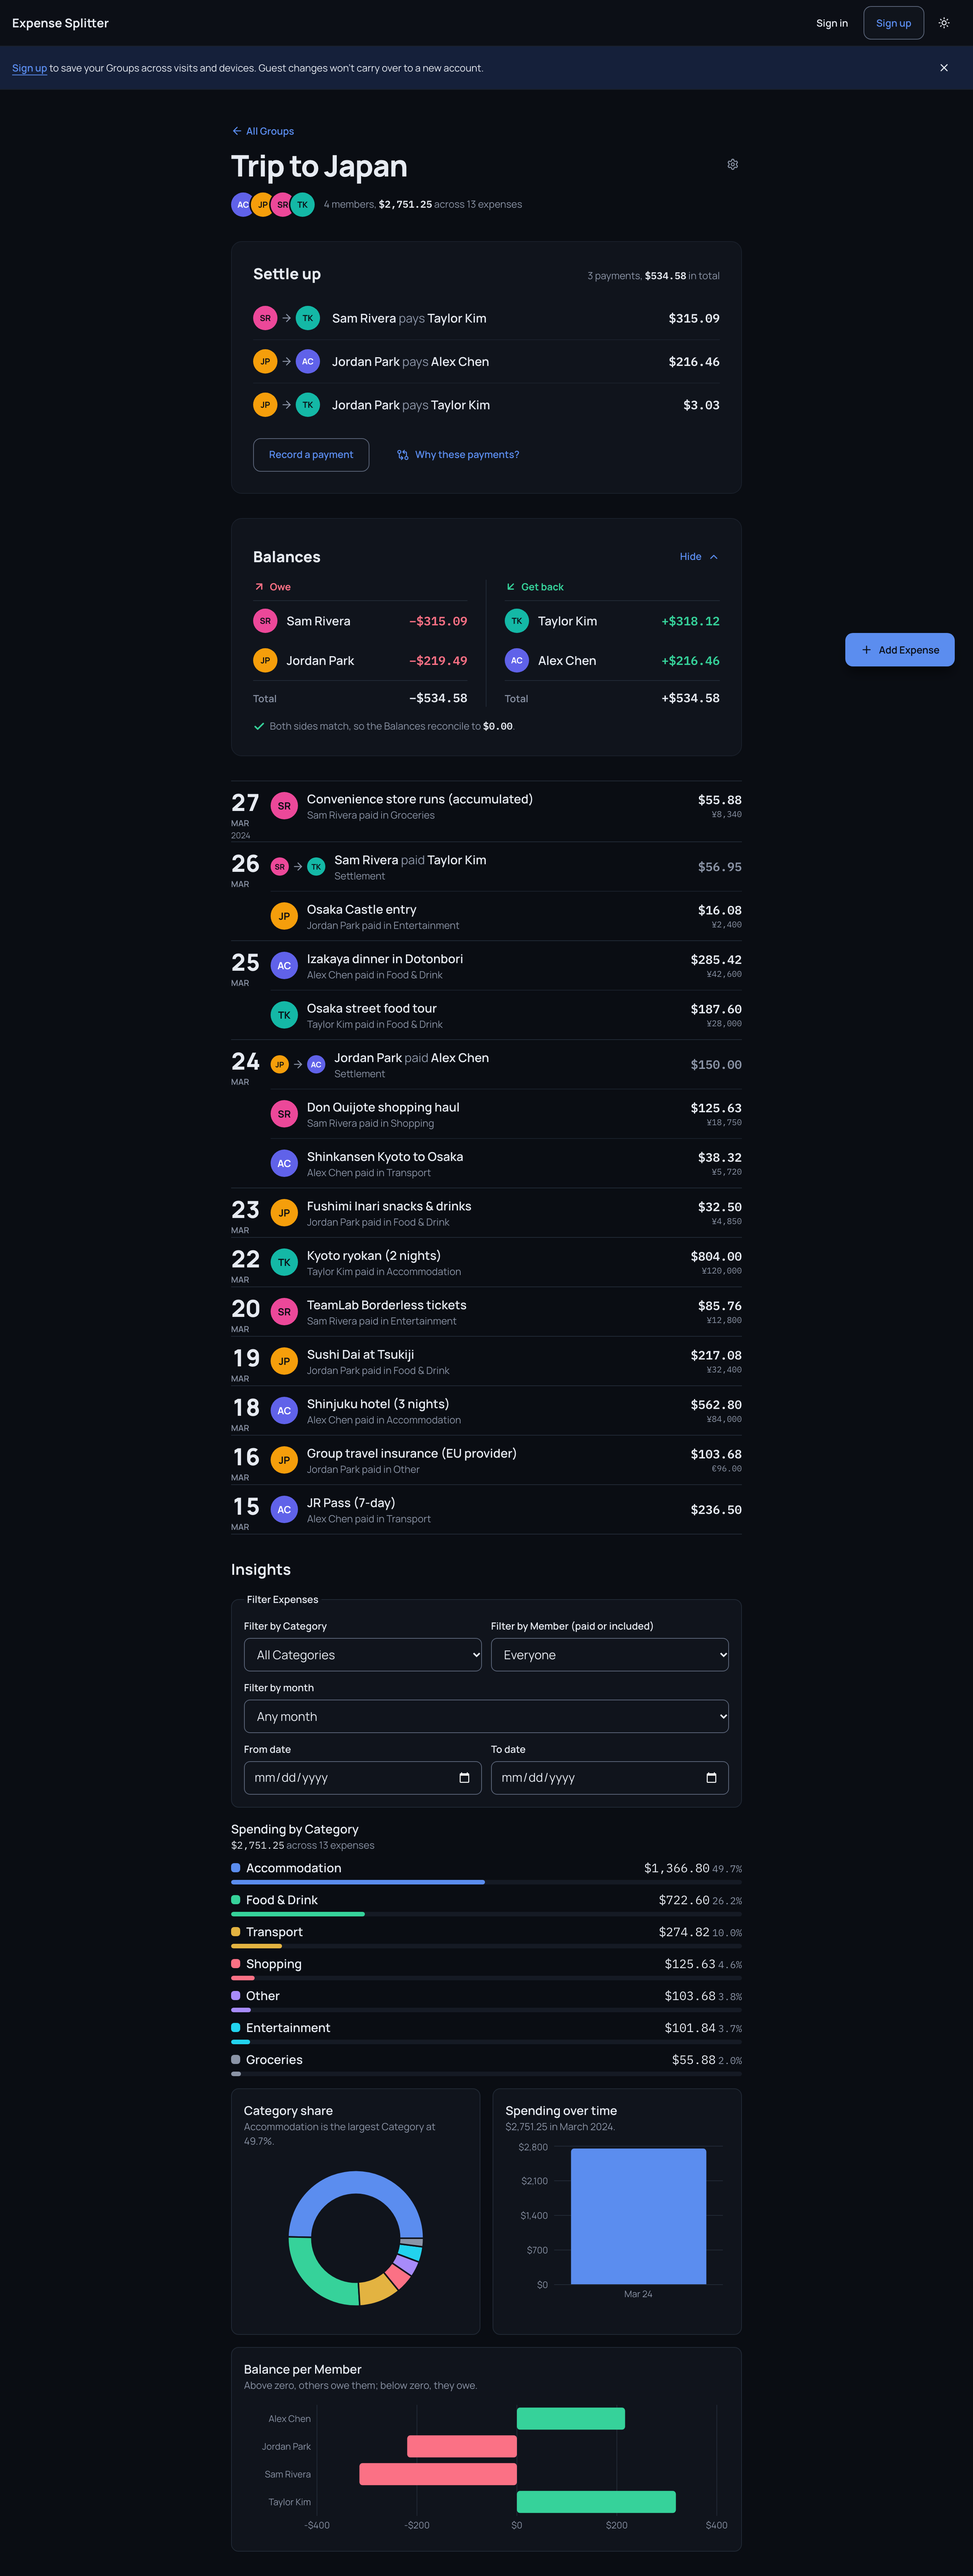
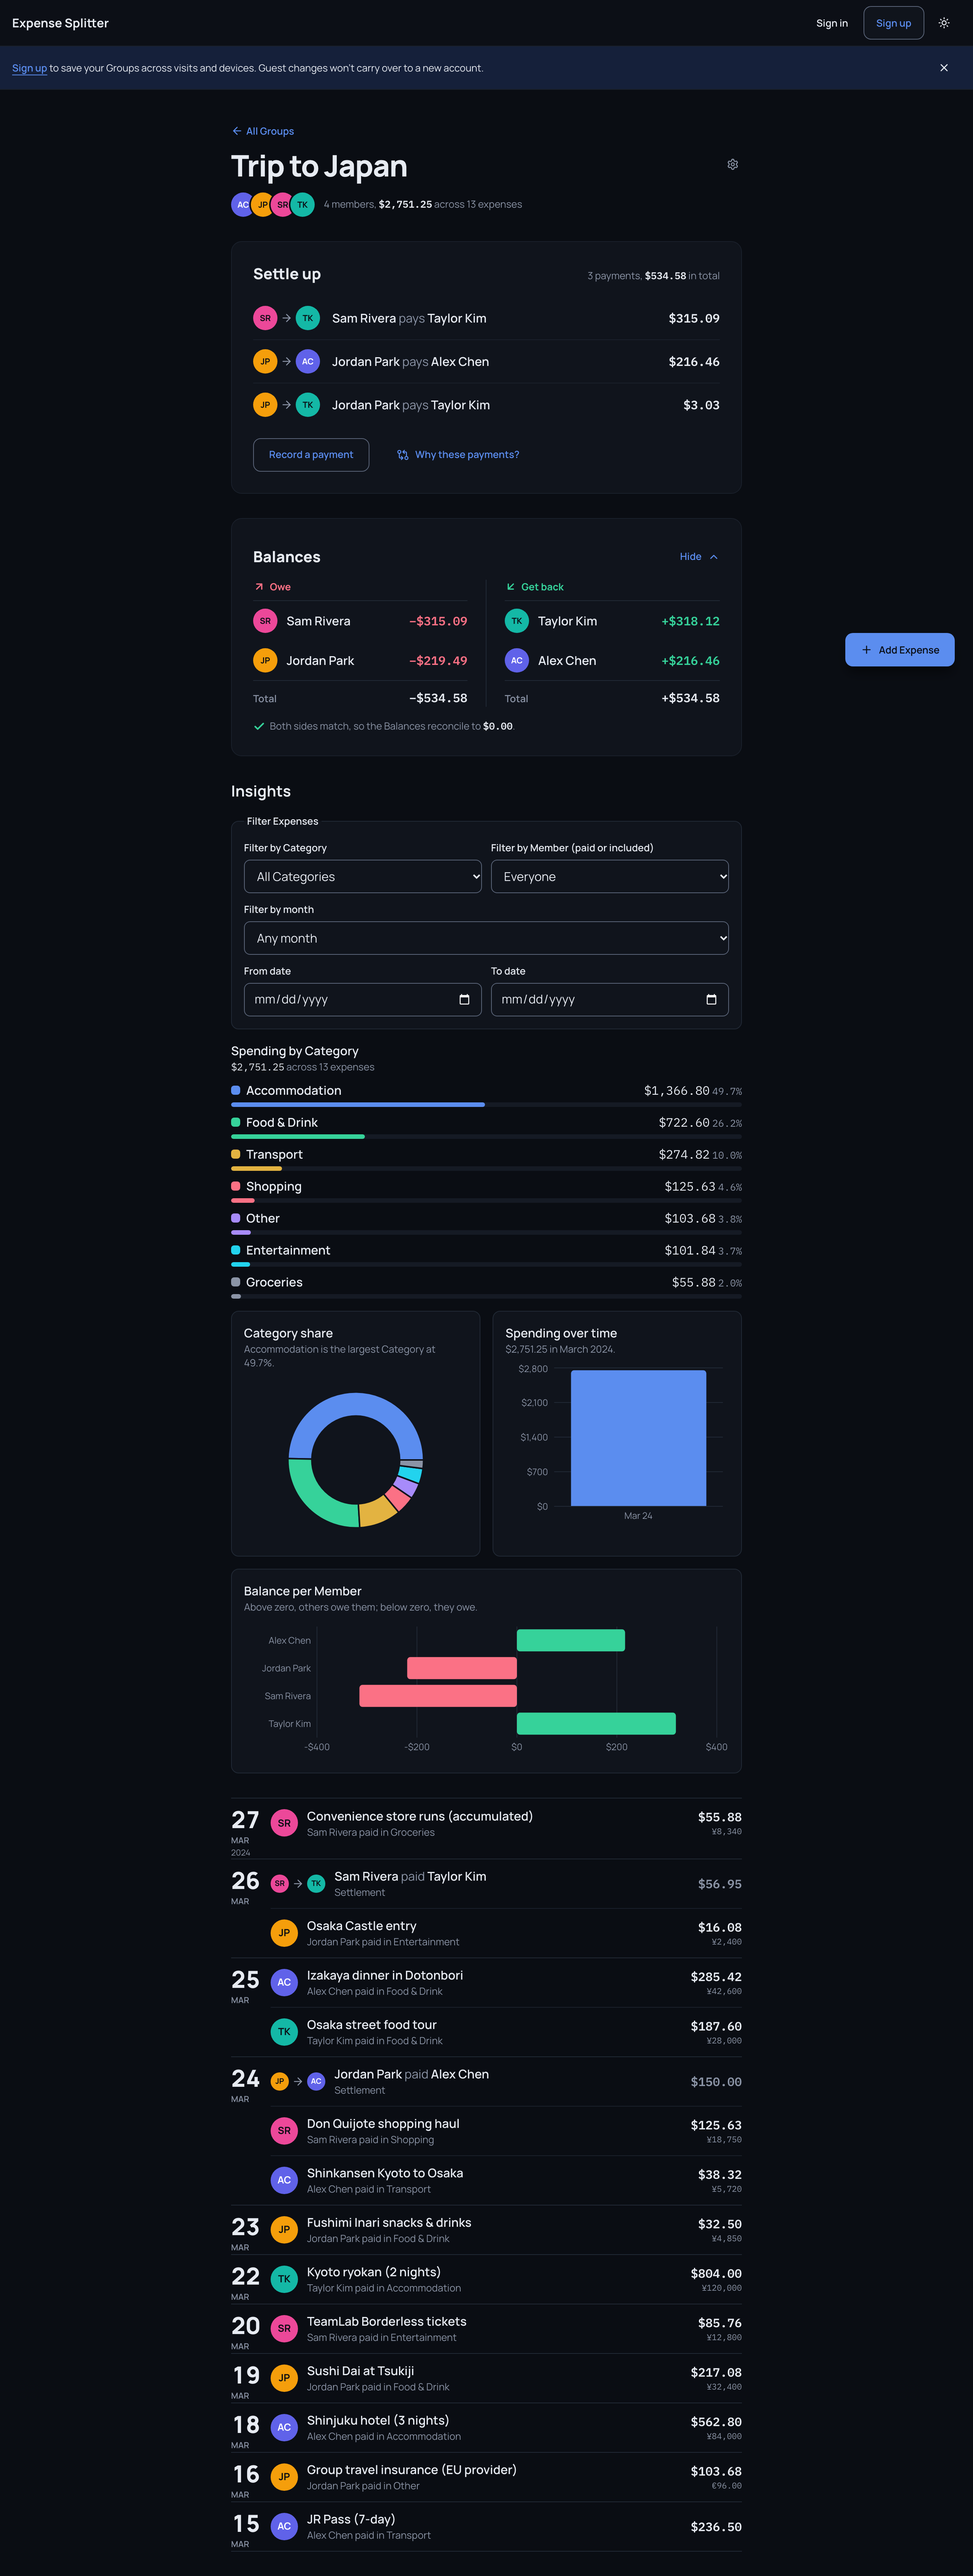
Address review: row ring offset, Insights order, empty state
- Rows' focus ring keeps its 2px offset, like every other ring.
- Insights stays above the ledger: ordering the two belongs to
  JoshLiu111/issue-track#22, and moving it split the filter controls from
  the "n matching Expenses" line they drive.
- "No Expenses match these filters." keeps the dashed empty-state outline.
- DESIGN.md: Insights is the only visible section Title left; the Dated
  Ledger's place on the page follows the order.
- ledgerDays says it expects date-sorted entries.

diff --git a/src/components/group-detail.tsx b/src/components/group-detail.tsx
@@ -27,7 +27,7 @@ import { describeBalance, pluralize } from "@/lib/format";
 
 /**
  * A Group's header (name, Members, total spent), the settle-up hero (Settle up, then Balances),
- * the dated ledger of Expenses and Settlements, then Insights, with Expense entry.
+ * Insights and the dated ledger of Expenses and Settlements, with Expense entry.
  * Details, Categories, Members and deletion live in Group settings, linked
  * from the header. Balances are recomputed from the Group on every render
  * (ADR 0004).
@@ -188,6 +188,21 @@ export function GroupDetail({
         <BalancesPanel group={group} ledger={ledger} currentMemberId={currentMemberId} />
       )}
 
+      {ledger.expenseCount > 0 && (
+        <section aria-labelledby="insights-heading" className="flex flex-col gap-4">
+          <h2 id="insights-heading" className="text-lg font-bold">
+            Insights
+          </h2>
+          <ExpenseFilters group={group} insights={insights} filter={filter} onChange={setFilter} />
+          <SpendingInsights
+            group={group}
+            insights={insights}
+            balances={ledger.balances}
+            filtering={filtering}
+          />
+        </section>
+      )}
+
       {/* With nothing recorded, the hero leads to the first Expense instead. */}
       {ledger.timeline.length > 0 && (
         <section aria-labelledby="activity-heading">
@@ -208,7 +223,7 @@ export function GroupDetail({
             )}
           </div>
           {timeline.length === 0 && filtering ? (
-            <p className="border-y border-border py-8 text-center text-text-secondary">
+            <p className="rounded-lg border border-dashed border-border-input p-6 text-text-secondary">
               No Expenses match these filters.
             </p>
           ) : (
@@ -219,21 +234,6 @@ export function GroupDetail({
               onDeleteSettlement={removeSettlement}
             />
           )}
-        </section>
-      )}
-
-      {ledger.expenseCount > 0 && (
-        <section aria-labelledby="insights-heading" className="flex flex-col gap-4">
-          <h2 id="insights-heading" className="text-lg font-bold">
-            Insights
-          </h2>
-          <ExpenseFilters group={group} insights={insights} filter={filter} onChange={setFilter} />
-          <SpendingInsights
-            group={group}
-            insights={insights}
-            balances={ledger.balances}
-            filtering={filtering}
-          />
         </section>
       )}
 

diff --git a/src/components/ledger-days.ts b/src/components/ledger-days.ts
@@ -17,7 +17,10 @@ export interface LedgerDay<T> {
   entries: T[];
 }
 
-/** Groups newest-first ledger entries by date; same-day entries keep their order. */
+/**
+ * Groups ledger entries by date; same-day entries keep their order. Expects
+ * them sorted by date, as the timeline and filtered Expenses are.
+ */
 export function ledgerDays<T extends { date: CalendarDate }>(entries: T[]): LedgerDay<T>[] {
   const days: LedgerDay<T>[] = [];
   for (const entry of entries) {
@@ -26,13 +29,13 @@ export function ledgerDays<T extends { date: CalendarDate }>(entries: T[]): Ledg
       last.entries.push(entry);
       continue;
     }
-    const d = new Date(`${entry.date}T00:00:00Z`);
-    const year = String(d.getUTCFullYear());
+    const calendarDay = new Date(`${entry.date}T00:00:00Z`);
+    const year = String(calendarDay.getUTCFullYear());
     const yearChanged = last === undefined || !last.date.startsWith(year);
     days.push({
       date: entry.date,
-      day: String(d.getUTCDate()),
-      month: MONTH.format(d),
+      day: String(calendarDay.getUTCDate()),
+      month: MONTH.format(calendarDay),
       label: formatCalendarDate(entry.date),
       year: yearChanged ? year : undefined,
       entries: [entry],

diff --git a/src/components/dated-ledger.tsx b/src/components/dated-ledger.tsx
@@ -97,7 +97,7 @@ export function DatedLedger({
  * The row bleeds 8px past the column so its tint clears the avatar and amount.
  */
 const rowClass =
-  "relative -mx-2 flex min-h-16 cursor-pointer items-center gap-3 rounded-md px-2 py-2.5 transition-colors duration-(--duration-fast) has-[button:hover]:bg-bg-tertiary/60 has-focus-visible:ring-[3px] has-focus-visible:ring-ring";
+  "relative -mx-2 flex min-h-16 cursor-pointer items-center gap-3 rounded-md px-2 py-2.5 transition-colors duration-(--duration-fast) has-[button:hover]:bg-bg-tertiary/60 has-focus-visible:ring-[3px] has-focus-visible:ring-ring has-focus-visible:ring-offset-2 has-focus-visible:ring-offset-background";
 const rowButtonClass =
   "cursor-pointer text-left break-words outline-none after:absolute after:inset-0 after:rounded-md";
 

diff --git a/DESIGN.md b/DESIGN.md
@@ -258,7 +258,7 @@ The scale is a compact major third (13, 16, 20, 25, 31, 39px), with an 11px capt
 ### Hierarchy
 - **Display** (800, 39px, 1.2): the landing page hero heading, and the Group name on the Group page (with tight tracking).
 - **Headline** (800, 31px, 1.25): one per page; the page name. In the Settle up panel, also the Settled Up Moment's "Everyone is Settled Up" and "No Expenses yet".
-- **Title** (700, 20px, 1.4): section headings such as Insights and Expenses; the Settle up and Balances panel headings at 800.
+- **Title** (700, 20px, 1.4): section headings such as Insights; the Settle up and Balances panel headings at 800.
 - **Body** (400, 16px, 1.55): prose, Member names, Expense descriptions.
 - **Label** (600, 13px, 1.45): buttons, field labels, legends, chips, metadata lines; the workhorse size.
 - **Caption** (400, 11px, 1.45): secondary conversions under an amount, avatar initials.
@@ -273,7 +273,7 @@ The scale is a compact major third (13, 16, 20, 25, 31, 39px), with an 11px capt
 
 The page is a centred column inside an 80rem frame with 16px side padding. Reading content (a Group, the dashboard, forms) narrows further to a 42rem content column so lists read like a statement. The landing hero uses a two-column grid (1.1fr / 1fr) from 1024px; feature lists step from one to two (640px) to four columns (1024px). Insights charts sit in a two-column grid from 768px.
 
-The Group page opens on its settle-up hero, two white panels inside the content column: **Settle up** (what closes the Group) and then **Balances** (why). The hero does not widen the column. Below it, on the page background, comes the dated ledger of Expenses and Settlements, then Insights.
+The Group page opens on its settle-up hero, two white panels inside the content column: **Settle up** (what closes the Group) and then **Balances** (why). The hero does not widen the column. Everything after it (Insights, then the dated ledger of Expenses and Settlements) sits on the page background.
 
 Spacing is a 4px base scale. Inside components, 8–16px dominates (chip gaps 8px, list row padding 12px × 16px, panel padding 24px, hero panel padding 20px on phones and 28px from 640px); between sections, 32px. Forms stack fields with 20px gaps.
 
@@ -331,14 +331,14 @@ The Group page's Settle up and Balances panels: the page's focal point, so they 
 **The White Panel Rule.** On the Group page, Settle up and Balances sit on white hero panels (14px radius, no shadow, borderless in light theme and a faint hairline in dark); everything after them stays on the page background, so the hero reads as the page's focal point.
 
 ### Dated Ledger
-The Group's Expenses and Settlements, newest first, directly on the page background below the hero panels: no card, no heading (a visually hidden "Expenses and Settlements" names the region for screen readers).
+The Group's Expenses and Settlements, newest first, on the page background below the hero panels and Insights: no card, no heading (a visually hidden "Expenses and Settlements" names the region for screen readers).
 - **Rules:** a hairline (`border`) above each date and below the last; faint hairlines (`border-subtle`) between rows on the same date.
 - **Date column:** 52px wide, one date per day, aligned with that day's first row: the day of the month in 31px extrabold ink, the month beneath it in 11px semibold uppercase graphite, and the year beneath that (11px regular) on the first date and wherever the year changes. The full date is read out with every row.
 - **Expense row:** the Payer's 36px avatar; the description (16px semibold) with "Sam Rivera paid in Groceries" (13px graphite) beneath it; on the right the amount in Group Currency (mono, 16px semibold) and, when the Expense Currency differs, the Expense Currency amount beneath it (mono, 11px graphite), e.g. `$55.88` over `¥8,340`. Split Type, member count and the Locked Rate are not in the row; they live in the editor.
 - **Settlement row:** payer → payee in 24px avatars; "Sam Rivera paid Taylor Kim" (names semibold ink, "paid" graphite) with "Settlement" (13px graphite) beneath it; the amount in graphite, so it reads as money moving rather than money spent. No panel or dashed border sets it apart.
 - **Row:** at least 64px tall, 10px × 8px padding, 12px gaps, the avatar and amount vertically centred. The row bleeds 8px past the column on each side so its hover tint clears the avatar and figure. Long names and descriptions wrap at whole words (breaking a word only when it cannot fit); the amount never shrinks, so at 390px it stays inside the screen.
 - **Rows carry no buttons.** An Expense or Settlement row is one control: a click, tap or Enter anywhere on it opens it (the Expense editor, or a dialog stating the Settlement), hover tints it hover slate at 60%, and focus rings the whole row. Delete lives inside what the row opens: the Expense editor's quiet Delete Expense, the Settlement dialog's Delete Settlement, each confirmed first.
-- **Filtering** hides Settlements; a line above the ledger counts the matching Expenses with a quiet Clear filters, and no match reads "No Expenses match these filters." between two hairlines.
+- **Filtering** hides Settlements; a line above the ledger counts the matching Expenses with a quiet Clear filters, and no match reads "No Expenses match these filters." in a dashed empty-state outline.
 
 ### Cards / Containers
 The ledger panel: a list or block on a white sheet, such as Insights' filter panel and charts. The Group page's Expenses and Settlements are not in one; see Dated Ledger.
